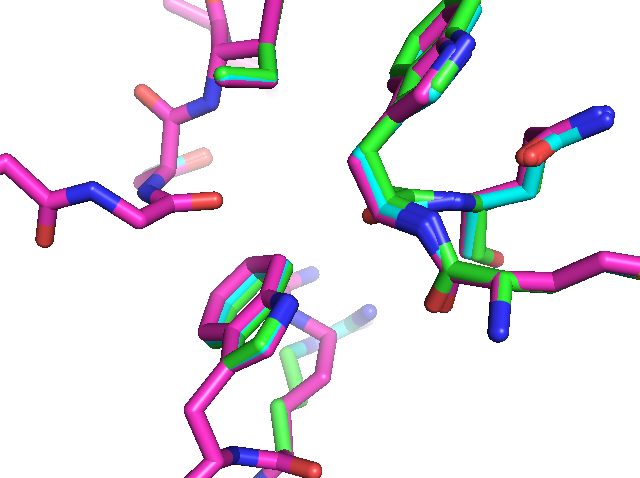
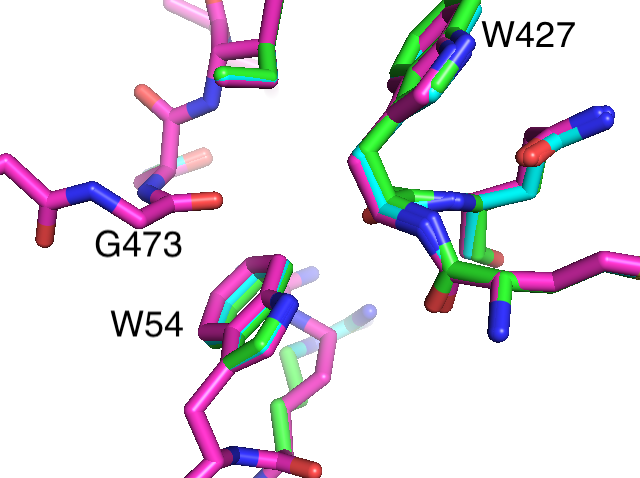
Structure figure updates

Changed region(s): [[0.75, 0.0293, 0.9062, 0.1172], [0.125, 0.4686, 0.2812, 0.5565], [0.1562, 0.6444, 0.2812, 0.7029]]

diff --git a/CATS.tex b/CATS.tex
@@ -2,7 +2,7 @@
 
 \begin{figure}
 \includegraphics[width=2in,height=1.7in]{figures/cats_confs.png}\hspace{0.2in}\includegraphics[width=2in,height=1.5in]{figures/w54_rigidBB_clashes.png}\hspace{0.2in}\includegraphics[width=2in,height=1.5in]{figures/w54_overlay.png}
-\caption{Left: CATS allows systematic search over a voxel of backbone conformations in the vicinity of the wild-type backbone conformation (black).  The voxel is specified as box constraints on a novel set of backbone coordinates; conformations with one such coordinate moved to the edge of the voxel are shown in red and green, and a conformation with all such coordinates moved to the edge of the voxel is shown in purple.  See Fig. 1 of Ref.~\citen{CATS} for more details.  Middle: Rigid-backbone structural modeling of an experimentally effective mutant of anti-HIV gp120 antibody VRC07 showed unavoidable steric clashes (purple).  Right: CATS explained the experimentally observed activity by finding a new backbone conformation that resolved these clashes (green; overlaid with clashing rigid-body backbone (purple) and backbone conformation computed with the older DEEPer algorithm (blue)).  DEEPer reduced the clashes somewhat using backrub motions~\cite{backrub}, but they were still significant after the backrubs.  See Fig. 3 of Ref.~\citen{CATS} for more details.   Portions of this figure were reprinted with permission from Ref.~\citen{CATS}.  }
+\caption{Left: CATS allows systematic search over a voxel of backbone conformations in the vicinity of the wild-type backbone conformation (black).  The voxel is specified as box constraints on a novel set of backbone coordinates; conformations with one such coordinate moved to the edge of the voxel are shown in red and green, and a conformation with all such coordinates moved to the edge of the voxel is shown in purple.  See Fig. 1 of Ref.~\citen{CATS} for more details.  Middle: Rigid-backbone structural modeling of an experimentally effective mutant of anti-HIV gp120 antibody VRC07 showed unavoidable steric clashes between Trp 54 of VRC07 and Trp 427 and Gly 473 of gp120 (purple).  Right: CATS explained the experimentally observed activity by finding a new backbone conformation that resolved these clashes (green; overlaid with clashing rigid-body backbone (purple) and backbone conformation computed with the older DEEPer algorithm (blue)).  DEEPer reduced the clashes somewhat using backrub motions~\cite{backrub}, but they were still significant after the backrubs.  See Fig. 3 of Ref.~\citen{CATS} for more details.   Portions of this figure were reprinted with permission from Ref.~\citen{CATS}.  }
 \label{fig:cats}
 \end{figure}
 

diff --git a/python.tex b/python.tex
@@ -25,7 +25,7 @@ See Figure~\ref{fig:pythonGMEC} for a complete example of a Python script that p
 \end{figure}
 
 \begin{figure}
-\includegraphics[width=3in]{figures/python_bbks_pic.png}
-\caption{\textbf{Setup for the Python-scripted \bbks~\cite{BBK*} design described in Fig.~\ref{fig:pythonBBKS}.}  This design starts with the crystal structure (PDB ID: 2RL0~\cite{2RL0}) of a complex between fragments of the protein FnBPA from~\textit{Staphylococcus aureus} (brown backbone) and human fibronectin (black backbone), and optimizes binding with respect to the amino acid type of FnBPA residue 649 (pink), while modeling continuous flexibility in several surrounding sidechains (orange).  }
+\includegraphics[width=3.25in]{figures/python_bbks_full.png}\includegraphics[width=3.25in]{figures/python_bbks_zoom.png}
+\caption{\textbf{Setup for the Python-scripted \bbks~\cite{BBK*} design described in Fig.~\ref{fig:pythonBBKS}.}  This design starts with the crystal structure (PDB ID: 2RL0~\cite{2RL0}) of a complex between fragments of the protein FnBPA from~\textit{Staphylococcus aureus} (blue ribbons) and human fibronectin (green ribbons), and optimizes binding with respect to the amino acid type of FnBPA residue 649 (magenta), while modeling continuous flexibility in several surrounding sidechains (orange).  The full complex is shown on the left, while the region surrounding the mutation is shown in detail on the right.  }
 \label{fig:pythonBBKSpic}
 \end{figure}
